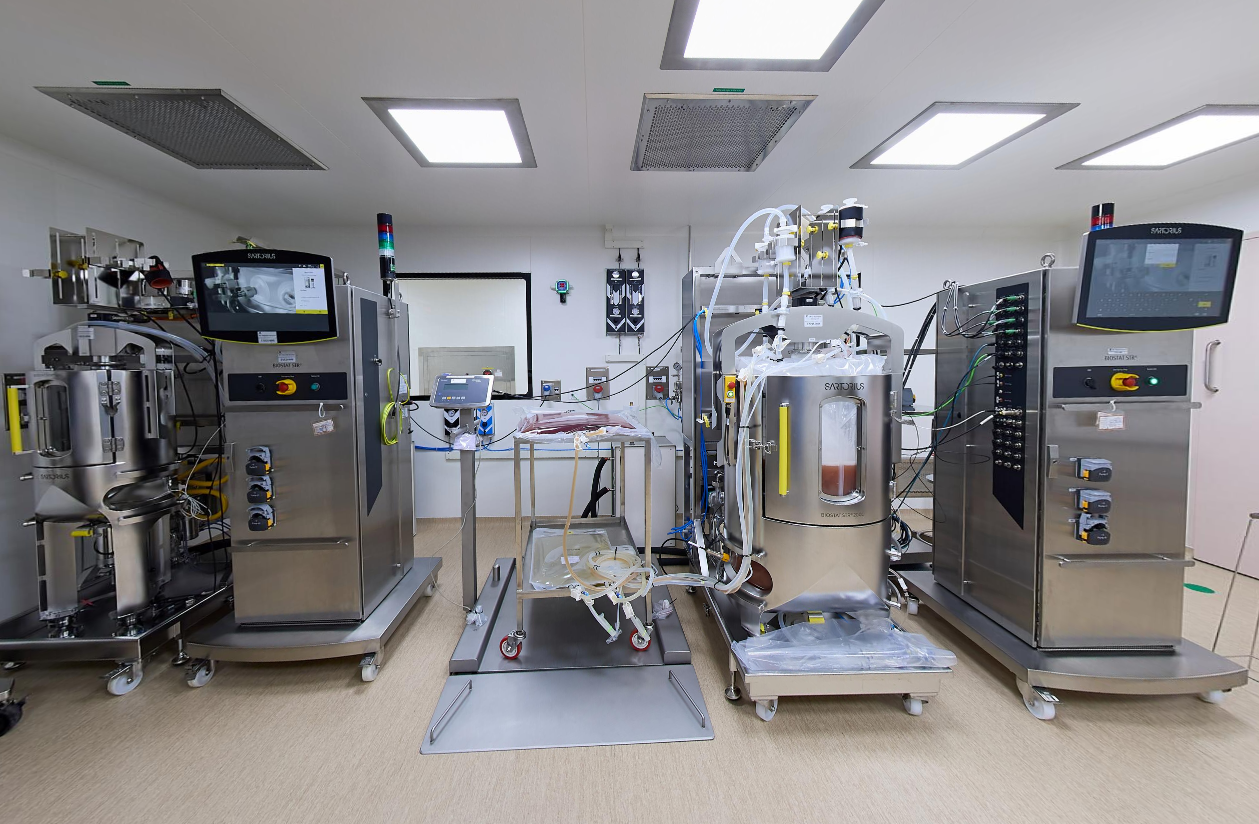
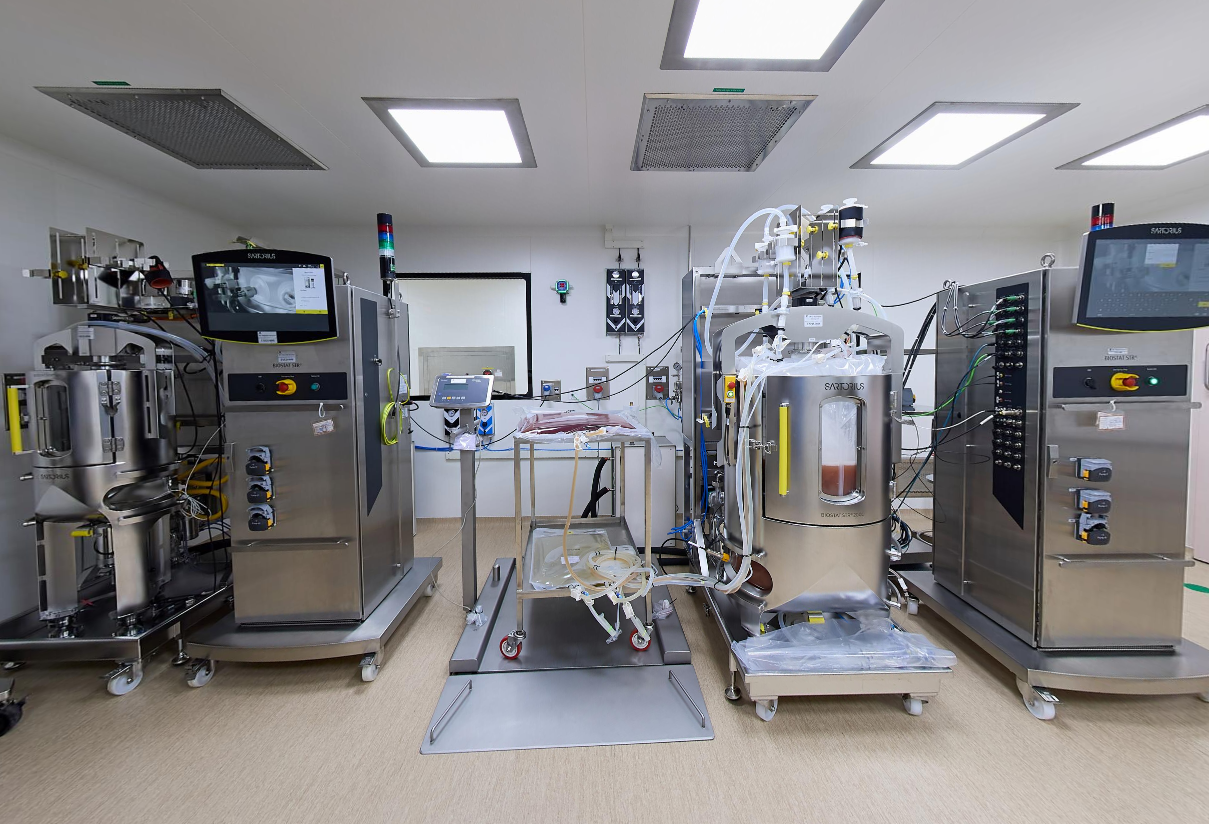
feat: update India facility hero carousel images and set home hero video to newhero.mp4

diff --git a/src/data/cdmoData.ts b/src/data/cdmoData.ts
@@ -194,7 +194,7 @@ export const cdmoData: CDMOPage[] = [
     "subtitle": "Integrated from Cell Line Engineering to Clinical Supplies.",
     "description": "Supporting biopharmaceutical companies with integrated biologics development, from Gene to GMP – cell line engineering, process development of Drug substance and Drug product, analytical characterization, GMP manufacturing, and clinical supply capabilities to accelerate the journey from molecule to market.",
     "image": "/images/hero_cleanroom.png",
-    "heroVideo": "/videos/hero5.mp4",
+    "heroVideo": "/videos/newhero.mp4",
     "heroMediaType": "video",
     "layoutTemplate": "universal",
     "primaryCta": {
@@ -465,7 +465,7 @@ export const cdmoData: CDMOPage[] = [
       "subtitle": "Integrated from Cell Line Engineering to Clinical Supplies.",
       "description": "Supporting biopharmaceutical companies with integrated biologics development, from Gene to GMP – cell line engineering, process development of Drug substance and Drug product, analytical characterization, GMP manufacturing, and clinical supply capabilities to accelerate the journey from molecule to market.",
       "image": "/images/hero_cleanroom.png",
-      "heroVideo": "/videos/hero5.mp4",
+      "heroVideo": "/videos/newhero.mp4",
       "heroMediaType": "video",
       "layoutTemplate": "universal",
       "primaryCta": {
@@ -971,13 +971,10 @@ export const cdmoData: CDMOPage[] = [
     "description": "Our Ahmedabad facility brings together **cell line development, upstream and downstream process development, analytical development and characterization, drug product development, and GMP manufacturing** within an integrated biologics development and manufacturing environment.",
     "image": "/images/development.jpg",
     "images": [
-      "/images/Screenshot 2026-09-11 131721.png",
+      "/images/ahmedabad/Screenshot4.png",
       "/images/Screenshot 2026-09-11 132304.png",
       "/images/Screenshot 2026-09-11 132325.png",
-      "/images/Screenshot 2026-09-11 131810.png",
-      "/images/Screenshot 2026-09-11 131847.png",
-      "/images/Screenshot 2026-09-11 132133.png",
-      "/images/Screenshot 2026-09-11 132518.png"
+      "/images/Screenshot 2026-09-11 131847.png"
     ],
     "sections": [
       {

diff --git a/src/components/FacilityHeroCarousel.tsx b/src/components/FacilityHeroCarousel.tsx
@@ -6,19 +6,9 @@ import { ChevronLeft, ChevronRight } from 'lucide-react';
 
 const FACILITY_IMAGES = [
   {
-    src: '/images/Screenshot%202026-09-11%20131810.png',
-    alt: 'Lambda CDMO Biologics Development Laboratories',
-    caption: 'Biologics Development Laboratories',
-  },
-  {
-    src: '/images/Screenshot%202026-09-11%20131847.png',
-    alt: 'Lambda CDMO Analytical Science Suite',
-    caption: 'Advanced Analytical & Physicochemical Suites',
-  },
-  {
-    src: '/images/Screenshot%202026-09-11%20132133.png',
-    alt: 'Lambda CDMO Bioprocess Development & Upstream Suite',
-    caption: 'Single-Use Bioreactor Production Suites',
+    src: '/images/ahmedabad/Screenshot4.png',
+    alt: 'Lambda CDMO Biologics Facility Infrastructure',
+    caption: 'Integrated Biologics Development & Manufacturing Campus',
   },
   {
     src: '/images/Screenshot%202026-09-11%20132304.png',
@@ -31,14 +21,9 @@ const FACILITY_IMAGES = [
     caption: 'Quality Control & Functional Bioassay Labs',
   },
   {
-    src: '/images/Screenshot%202026-09-11%20132518.png',
-    alt: 'Lambda CDMO Aseptic Fill-Finish & Isolator Suite',
-    caption: 'Automated Aseptic Fill-Finish Operations',
-  },
-  {
-    src: '/images/Screenshot%202026-09-11%20131721.png',
-    alt: 'Lambda CDMO Campus & Facility Infrastructure',
-    caption: 'Integrated 27,000 sqft Biologics Campus',
+    src: '/images/Screenshot%202026-09-11%20131847.png',
+    alt: 'Lambda CDMO Analytical Science Suite',
+    caption: 'Advanced Analytical & Physicochemical Suites',
   },
 ];
 

diff --git a/src/components/ui/hero-section-5.tsx b/src/components/ui/hero-section-5.tsx
@@ -17,7 +17,7 @@ export function HeroSection({
     heading = 'Biologics Development and Manufacturing.',
     subtitle = 'Integrated from Cell Line Engineering to Clinical Supplies.',
     description = 'Supporting biopharmaceutical companies with integrated biologics development, from Gene to GMP – cell line engineering, process development of Drug substance and Drug product, analytical characterization, GMP manufacturing, and clinical supply capabilities to accelerate the journey from molecule to market.',
-    videoSrc = '/videos/hero5.mp4',
+    videoSrc = '/videos/newhero.mp4',
     primaryCta = { text: 'Get in touch', link: '/contact' },
     secondaryCta = { text: 'Explore Services', link: '/services/cell-line' }
 }: HeroSectionProps = {}) {
@@ -27,8 +27,8 @@ export function HeroSection({
                 {/* Background Video confined within container */}
                 <div className="absolute inset-0 z-0 overflow-hidden">
                     <video
-                        key={videoSrc || '/videos/hero5.mp4'}
-                        src={videoSrc || '/videos/hero5.mp4'}
+                        key={videoSrc || '/videos/newhero.mp4'}
+                        src={videoSrc || '/videos/newhero.mp4'}
                         autoPlay
                         loop
                         muted

diff --git a/src/components/HomeClientView.tsx b/src/components/HomeClientView.tsx
@@ -50,7 +50,7 @@ export default function HomeClientView({ pageData }: HomeClientViewProps) {
   const heroHeading = pageData?.heading || 'Biologics Development and Manufacturing.';
   const heroSubtitle = pageData?.subtitle || 'Integrated from Cell Line Engineering to Clinical Supplies.';
   const heroDesc = pageData?.description || 'Supporting biopharmaceutical companies with integrated biologics development, from Gene to GMP – cell line engineering, process development of Drug substance and Drug product, analytical characterization, GMP manufacturing, and clinical supply capabilities to accelerate the journey from molecule to market.';
-  const heroVideo = pageData?.heroVideo || '/videos/hero5.mp4';
+  const heroVideo = (pageData?.heroVideo && pageData.heroVideo !== '/videos/hero5.mp4') ? pageData.heroVideo : '/videos/newhero.mp4';
   const heroPrimaryCta = {
     text: pageData?.heroPrimaryCtaText || pageData?.primaryCta?.text || 'GET IN TOUCH',
     link: pageData?.heroPrimaryCtaLink || pageData?.primaryCta?.link || '/contact',

diff --git a/src/components/admin/PageAdminEditor.tsx b/src/components/admin/PageAdminEditor.tsx
@@ -7280,13 +7280,10 @@ export default function PageAdminEditor({
               ? page.images
               : (page.slug?.toLowerCase() === 'india' || page.title?.toLowerCase().includes('ahmedabad'))
               ? [
-                  '/images/Screenshot 2026-09-11 131810.png',
-                  '/images/Screenshot 2026-09-11 131847.png',
-                  '/images/Screenshot 2026-09-11 132133.png',
+                  '/images/ahmedabad/Screenshot4.png',
                   '/images/Screenshot 2026-09-11 132304.png',
                   '/images/Screenshot 2026-09-11 132325.png',
-                  '/images/Screenshot 2026-09-11 132518.png',
-                  '/images/Screenshot 2026-09-11 131721.png',
+                  '/images/Screenshot 2026-09-11 131847.png',
                 ]
               : (page.slug?.toLowerCase() === 'uk' || page.slug?.toLowerCase() === 'london' || page.title?.toLowerCase().includes('london'))
               ? [

diff --git a/src/lib/pagesStorage.ts b/src/lib/pagesStorage.ts
@@ -51,13 +51,13 @@ function ensureStorageFileExists(): void {
           });
           changed = true;
         } else {
-          // If default page exists, make sure heroVideo on home is fixed to /videos/hero5.mp4 if it had /cta-bg-video.mp4 or /videos/newhero.mp4
+          // If default page exists, make sure heroVideo on home is fixed to /videos/newhero.mp4
           if (
             defPage.category === 'home' &&
             defPage.slug === 'home' &&
-            (parsed[foundIdx].heroVideo === '/cta-bg-video.mp4' || parsed[foundIdx].heroVideo === '/videos/newhero.mp4')
+            parsed[foundIdx].heroVideo !== '/videos/newhero.mp4'
           ) {
-            parsed[foundIdx].heroVideo = '/videos/hero5.mp4';
+            parsed[foundIdx].heroVideo = '/videos/newhero.mp4';
             changed = true;
           }
         }
